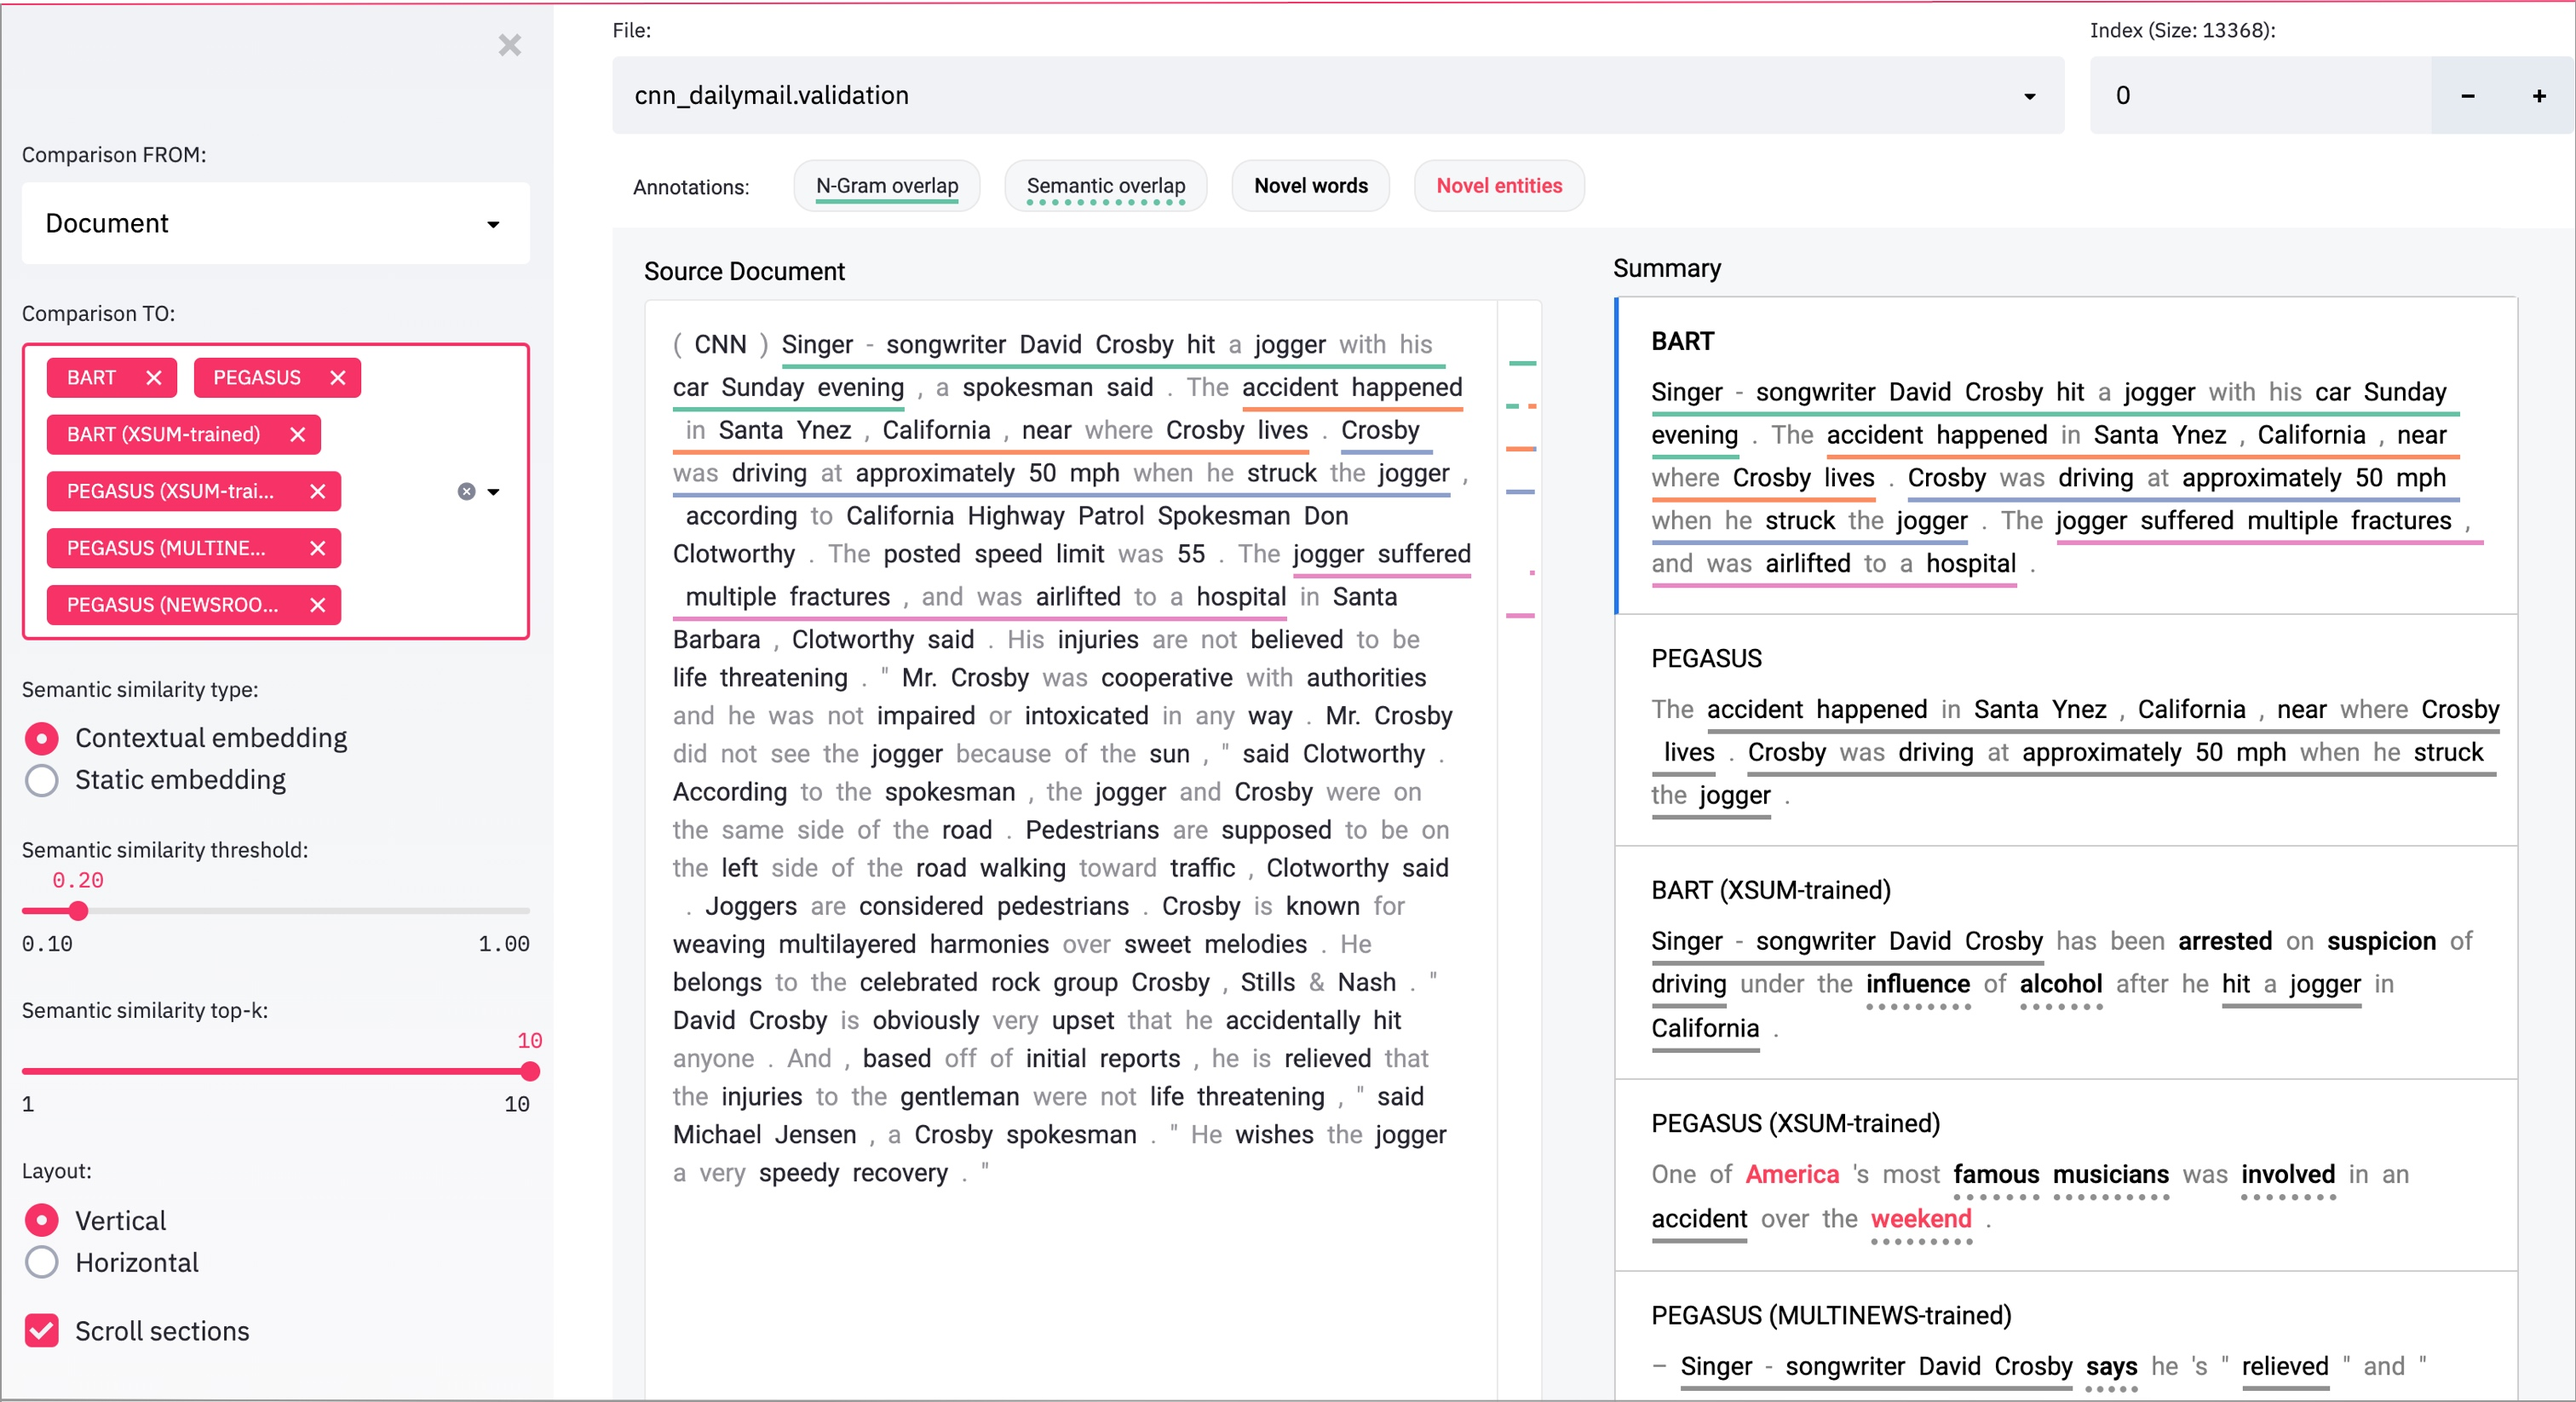
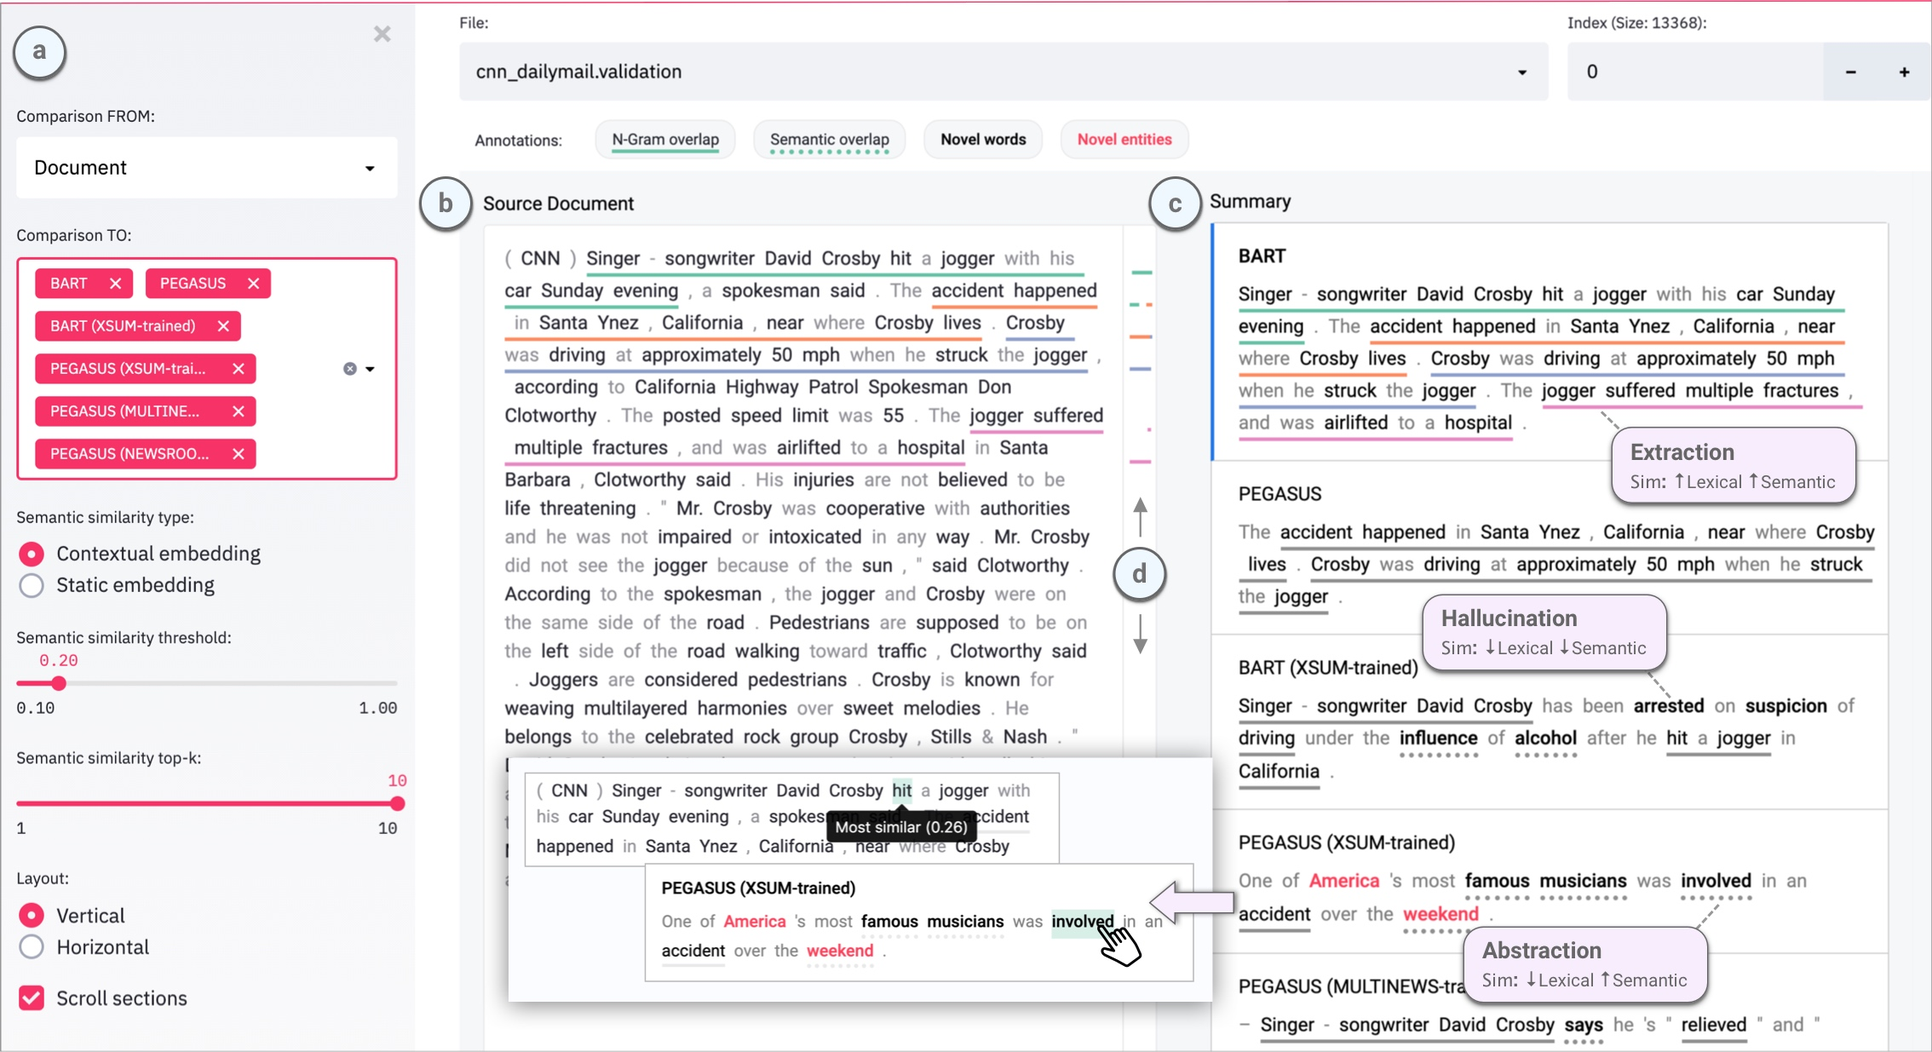
Update README with new figure, description, and author names.

diff --git a/README.md b/README.md
@@ -1,14 +1,30 @@
-# SummVis
-SummVis is an interactive visualization tool for analyzing abstractive summarization model outputs and datasets.
+SummVis is an interactive visualization tool for abstractive summarization models, supporting analysis of models,
+data, and evaluation metrics. Please refer to the following for additional details:
 
-📖 [Paper](https://arxiv.org/abs/2104.07605)<br/>
+📖 [Paper](https://arxiv.org/abs/2104.07605)
 🎥 [Demo](https://vimeo.com/537498802)
+ 
+Authors: [Jesse Vig](https://twitter.com/jesse_vig)<sup>1</sup>, 
+[Wojciech Kryściński](https://twitter.com/iam_wkr)<sup>1</sup>,
+ [Karan Goel](https://twitter.com/krandiash)<sup>2</sup>,
+  [Nazneen Fatema Rajani](https://twitter.com/nazneenrajani)<sup>1</sup><br/>
+  <sup>1</sup> [Salesforce Research](https://einstein.ai/) <sup>2</sup> [Stanford Hazy Research](https://hazyresearch.stanford.edu/)
 
+## Interface
 
-<p align="center">
-  <img src="https://raw.githubusercontent.com/robustness-gym/summvis/master/images/main-vis.jpg" width="1000" alt="Figure"/>
-</p>
+The SummVis interface is shown below. The primary components are: **(a)** configuration panel, **(b)** source document (or reference 
+ summary, depending on configuration), **(c)** generated summaries (and/or reference summary, depending on configuration),
+  **(d)** scroll bar with global view of annotations.
+   
+   **Colored underlines** align n-grams between source document and the 
+  selected summary (BART). Novel words in the summary that do not appear in the source document are
+     **bolded**, while novel entities are **bolded in red**. Stopwords are 
+     **grayed out** and are not used in the matching algorithms. **Dotted underlines** indicate tokens
+      that are semantically related to a token in the source document. The user may hover over a token to see the most semantically similar tokens in the source
+        document (see inset image), or click on the token to auto-scroll the source document to the most similar token.
 
+![Image](images/main-vis.jpg) 
+ 
 
 ## Installation
 **IMPORTANT**: Please use `python>=3.8` since some dependencies require that for installation.
